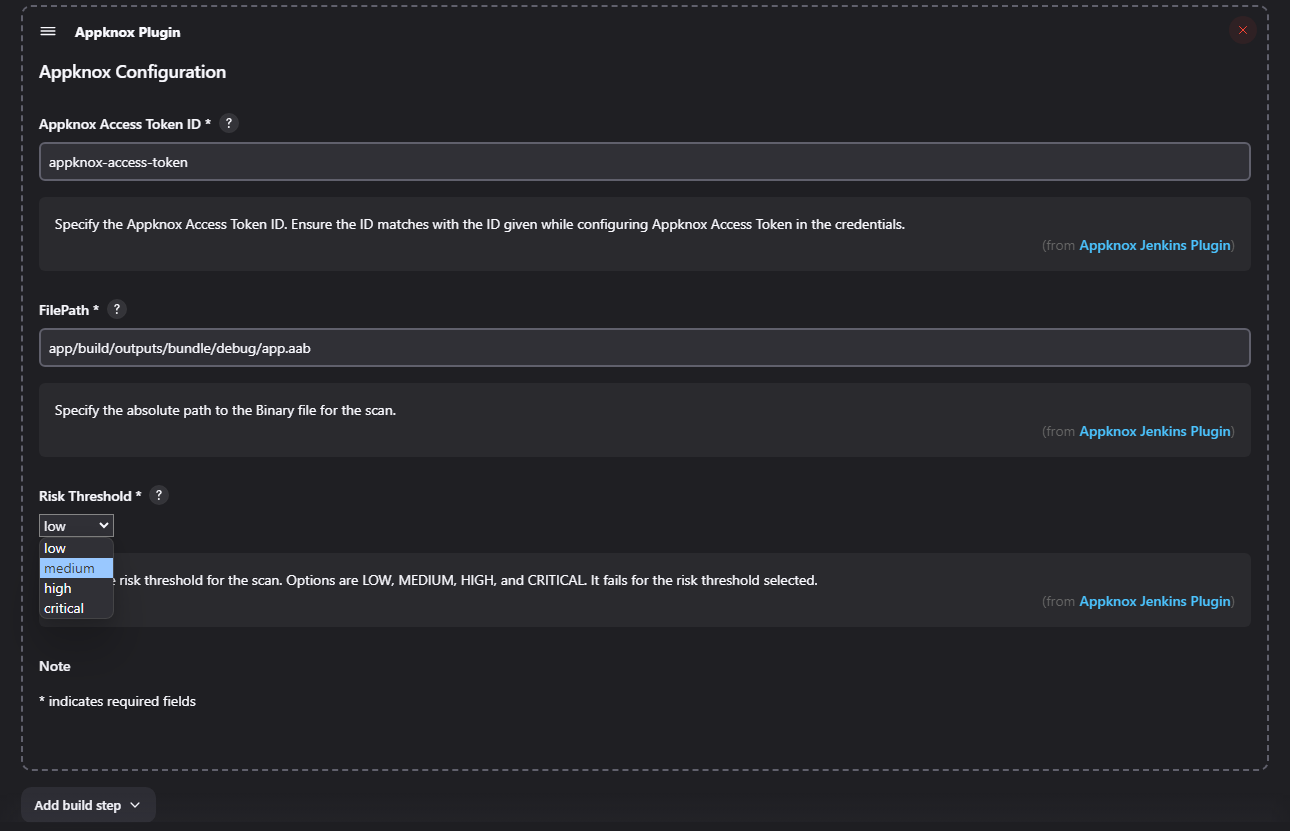
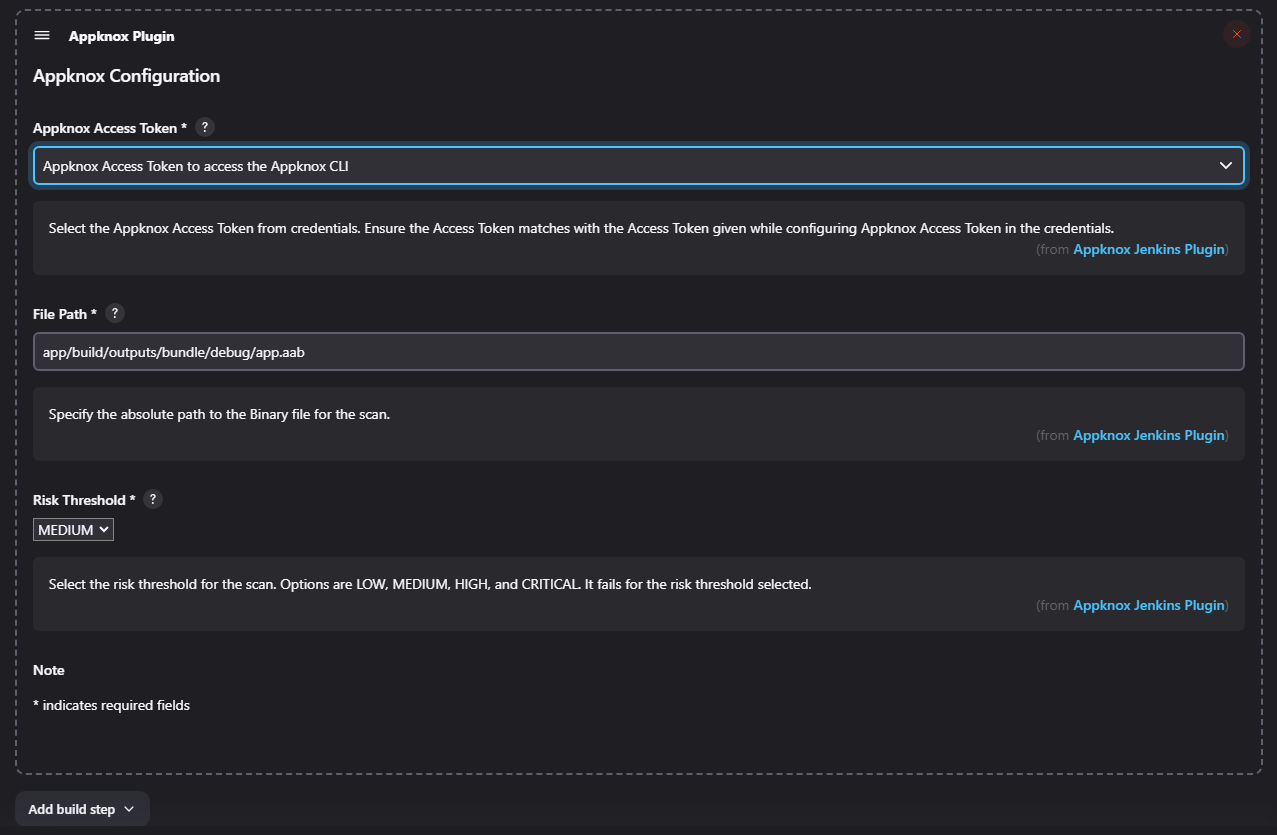
Readme Update

diff --git a/README.md b/README.md
@@ -12,7 +12,7 @@ Generate a personal access token from <a href="https://secure.appknox.com/settin
 
 ### Step 2: Store Appknox Access Token in credentials
 
-Select Credentials from sideline from Manage Jenkins -> Security -> credentials:
+Select Credentials options from Manage Jenkins -> credentials:
 
 ![Credentials](https://github.com/ashujha301/appknox-jenkins-plugin/blob/main/images/jenkins1.png)
 
@@ -20,7 +20,7 @@ Store Appknox Access Token as Global credential:
 
 ![Global Credentials](https://github.com/ashujha301/appknox-jenkins-plugin/blob/main/images/jenkins2.png)
 
-Select Kind as Secret Text and store the Appknox Access Token with proper Id and description:
+Select Kind as Secret Text and store the Appknox Access Token with desired Id and description:
 
 ![Kind Credentials](https://github.com/ashujha301/appknox-jenkins-plugin/blob/main/images/jenkins4.png)
 
@@ -40,13 +40,18 @@ Add Appknox Plugin from build Step:
 
 ### Step 3: Configure Appknox Plugin
 
-Add Details in the Appknox Plugin Configuration:
+Select Access Token from the dropdown:
 
-![Appknox Plugin Configuration](https://github.com/ashujha301/appknox-jenkins-plugin/blob/main/images/jenkins7.png)
+![Appknox Plugin Token](https://github.com/ashujha301/appknox-jenkins-plugin/blob/main/images/jenkins10.png)
 
 #### Note:
 
-Ensure the Appknox Access Token ID matches with the ID given while configuring Appknox Access Token in the credentials.
+Ensure the Access Token matches with the Access Token given while configuring Appknox Access Token in the credentials.
+
+Add Other details in the Appknox Plugin Configuration:
+
+![Appknox Plugin Configuration](https://github.com/ashujha301/appknox-jenkins-plugin/blob/main/images/jenkins7.png)
+
 
 ## Appknox Plugin As Pipeline
 
@@ -76,7 +81,7 @@ stages {
                         // Perform Appknox scan using AppknoxPlugin
                         step([
                             $class: 'AppknoxPlugin',
-                            accessTokenID: 'your-accessToken-ID', //Specify the Appknox Access Token ID. Ensure the ID matches with the ID given while configuring Appknox Access Token in the credentials.
+                            credentialsId: 'your-accessToken-ID', //Specify the Appknox Access Token ID. Ensure the ID matches with the ID given while configuring Appknox Access Token in the credentials.
                             filePath: FILE_PATH,
                             riskThreshold: params.RISK_THRESHOLD.toUpperCase()
                         ])
@@ -105,41 +110,32 @@ pipeline {
     parameters {
         choice(name: 'RISK_THRESHOLD', choices: ['LOW', 'MEDIUM', 'HIGH', 'CRITICAL'], description: 'Risk Threshold')
     }
-    environment {
-        FILE_PATH = 'app/build/outputs/apk/debug/app.aab' //filepath to binary file
-    }
     stages {
         stage('Checkout') {
             steps {
-                git 'https://github.com/username/repo'
+                git 'https://github.com/yourgithub/reponame'
             }
         }
         stage('Build App') {
             steps {
-                // Build the app using specific Gradle version
+                // Build the app using specific build, Example is given using gradle
                 script {
-                    if (isUnix()) {
-                        sh './gradlew build'
-                    } else {
-                        bat './gradlew build'
-                    }
+                    sh './gradlew build'
+                    FILE_PATH = "${WORKSPACE}/app/build/outputs/apk/debug/app.aab"
                 }
             }
         }
         stage('Appknox Scan') {
             steps {
                 script {
-                    // Retrieve APPKNOX_ACCESS_TOKEN from Jenkins credentials
-                    withCredentials([string(credentialsId: 'appknox-access-token', variable: 'APPKNOX_ACCESS_TOKEN')]) {
                         // Perform Appknox scan using AppknoxPlugin
-                        echo "Using file path: ${FILE_PATH}"
                         step([
                             $class: 'AppknoxPlugin',
-                            accessToken: APPKNOX_ACCESS_TOKEN,
+                            credentialsId: 'your-appknox-access-token-id', //Specify the Appknox Access Token ID. Ensure the ID matches with the ID given while configuring Appknox Access Token in the credentials.
                             filePath: FILE_PATH,
                             riskThreshold: params.RISK_THRESHOLD.toUpperCase()
                         ])
-                    }
+                    
                 }
             }
         }
@@ -147,4 +143,3 @@ pipeline {
 }
 
 ```
-
